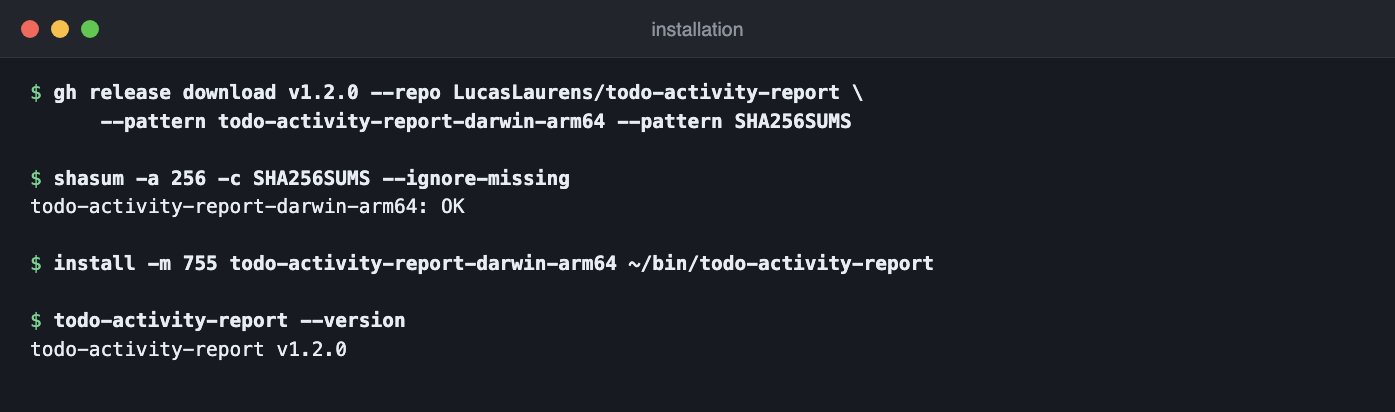
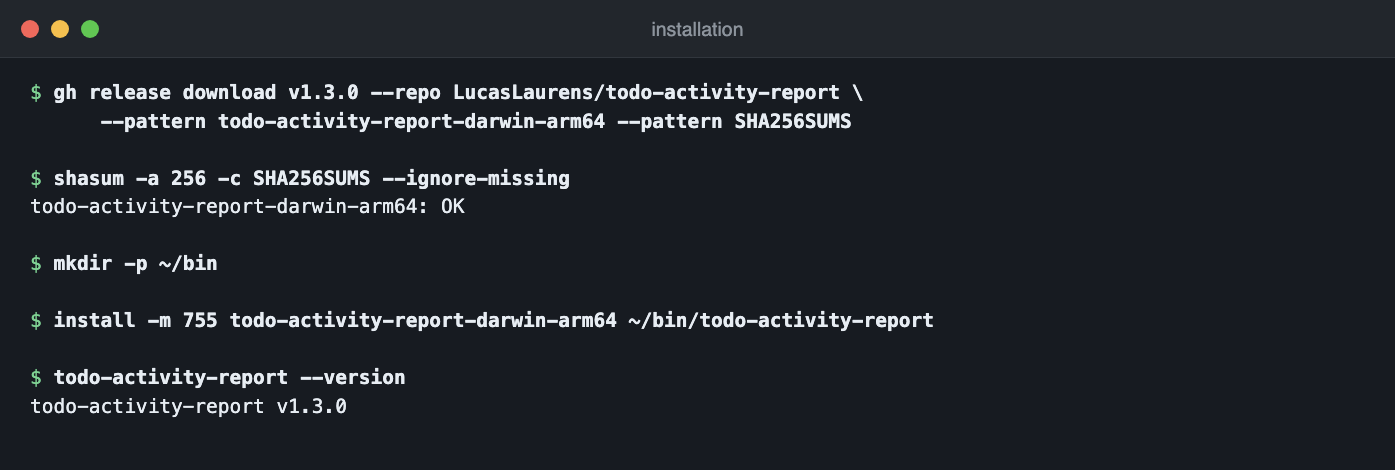
docs: point the install docs at the v1.3.0 release
The README, install guide and screenshot now download v1.3.0, the first
release built with the patched toolchain. status.md warns against v1.2.0
and records that v1.3.0 was built locally while GitHub Actions is
blocked; ci.md documents how to reproduce the release job by hand.

diff --git a/docs/install.md b/docs/install.md
@@ -33,7 +33,7 @@ Il ne réclame que deux choses :
 | `SHA256SUMS` | empreintes des 4 binaires |
 
 Chaque tag pousse ces fichiers dans une **Release GitHub** (voir [ci.md](ci.md#build--release-sur-tag)).
-Dernière release : **v1.2.0** — liste complète via
+Dernière release : **v1.3.0** — liste complète via
 `gh release list --repo LucasLaurens/todo-activity-report`.
 
 ### Télécharger et installer
@@ -43,7 +43,7 @@ Le plus simple est `gh`, qui réutilise la session existante — inutile de
 manipuler un token à la main :
 
 ```bash
-TAG=v1.2.0                    # tag visé
+TAG=v1.3.0                    # tag visé
 TARGET=darwin-arm64           # ou darwin-amd64, linux-amd64, linux-arm64
 
 # 1. binaire + empreintes, sous leur nom de publication
@@ -99,7 +99,7 @@ shasum: SHA256SUMS: no file was verified          # exit 1
 ### Savoir quelle version on a
 
 ```bash
-todo-activity-report --version     # → todo-activity-report v1.2.0
+todo-activity-report --version     # → todo-activity-report v1.3.0
 ```
 
 Le tag est injecté à la compilation par le job `release`
@@ -181,7 +181,7 @@ rm ~/bin/todo-activity-report ~/bin/.env
 
 ## Captures d'écran
 
-Téléchargement, vérification de l'empreinte et premier lancement de la v1.2.0 :
+Téléchargement, vérification de l'empreinte et premier lancement de la v1.3.0 :
 
 ![Premier lancement](images/install-premier-run.png)
 

diff --git a/docs/images/README.md b/docs/images/README.md
@@ -6,14 +6,14 @@ Images utilisées par le README et la documentation.
 |---------|--------------|---------|
 | `sortie-couleurs.png` | [README](../../README.md), [usage.md](../usage.md#couleurs) | rapport complet, statuts colorés (rouge / bleu / vert) |
 | `sortie-brief.png` | [README](../../README.md), [usage.md](../usage.md#couleurs) | même rapport en `--detail=brief` |
-| `install-premier-run.png` | [README](../../README.md), [install.md](../install.md#captures-décran) | téléchargement de la v1.2.0, empreinte, `--version` |
+| `install-premier-run.png` | [README](../../README.md), [install.md](../install.md#captures-décran) | téléchargement de la v1.3.0, empreinte, `--version` |
 | `install-release.png` | [install.md](../install.md#captures-décran) | *à fournir* : page Release GitHub avec les assets |
 
 Les rapports sont la vraie sortie du renderer (`internal/infrastructure/cli`),
 alimentée par les fakes in-memory de `internal/testsupport` avec un board
 **fictif** (`ACME`, `camille.martin@example.com`) et une synthèse IA écrite à la
 main. La capture d'installation montre les vraies commandes et sorties sur la
-Release v1.2.0.
+Release v1.3.0.
 
 Conventions : PNG, largeur ≤ 1400 px, terminal en thème sombre, aucune donnée
 client ni identifiant visible (flouter clés de tickets et emails réels si besoin).

diff --git a/docs/status.md b/docs/status.md
@@ -84,9 +84,10 @@ Aucune dépendance Go tierce : stdlib uniquement.
 - [ ] Un seul adapter de tracker livré (`jira`) : le port et le registre existent, les autres restent à écrire.
 - [ ] Pas de cache des réponses du tracker (chaque run rappelle l'API).
 - [ ] Sortie terminal uniquement (pas de JSON/CSV export).
-- [ ] Release **v1.2.0 vulnérable** : compilée en Go 1.22.12, elle embarque 63 vulnérabilités
-  stdlib connues (`govulncheck -mode=binary`). Le code est corrigé (toolchain
-  `go1.26.10`), il faut publier un nouveau tag pour livrer des binaires sains.
+- [ ] Ne plus installer la **v1.2.0** : compilée en Go 1.22.12, elle embarque 63 vulnérabilités
+  stdlib connues (`govulncheck -mode=binary`). La **v1.3.0** (go1.26.10) n'en a aucune.
+- [ ] CI GitHub Actions bloquée par la facturation du compte : la v1.3.0 a été compilée en
+  local avec les commandes exactes du job `release` (voir [ci.md](ci.md#publier-une-version)).
 - [ ] Durcissements sécurité restants, faible gravité (serveurs de confiance requis) :
   corps d'erreur Jira/Anthropic et stderr du CLI `claude` affichés sans `sanitize.Printable` ;
   `sanitize.Printable` laisse passer les contrôles C1 (U+0080–U+009F) et les marques bidi ;

diff --git a/docs/ci.md b/docs/ci.md
@@ -70,6 +70,23 @@ git push origin v1.0.0
 Aucun secret à configurer : le `GITHUB_TOKEN` fourni au workflow suffit à
 créer la Release.
 
+Sans CI disponible (cas de la v1.3.0, Actions bloquées par la facturation), on
+reproduit le job à la main, puis on publie avec `gh` :
+
+```bash
+TAG=v1.3.0
+for target in darwin-arm64 darwin-amd64 linux-amd64 linux-arm64; do
+  CGO_ENABLED=0 GOOS="${target%-*}" GOARCH="${target#*-}" \
+    go build -trimpath -ldflags="-s -w -X main.version=$TAG" \
+      -o "dist/todo-activity-report-$target" ./cmd/todo-activity-report
+done
+(cd dist && shasum -a 256 todo-activity-report-* > SHA256SUMS)
+gh release create "$TAG" --target main --title "todo-activity-report $TAG" dist/*
+```
+
+`CGO_ENABLED=0` reproduit la cross-compilation de la CI : un build natif sur
+macOS activerait cgo.
+
 ## Sécurité du pipeline
 
 - **Droits minimaux** : le workflow est en `contents: read` ; seul le job

diff --git a/README.md b/README.md
@@ -30,7 +30,7 @@ Prérequis : un accès au dépôt (il est **privé**, demander l'accès à son
 propriétaire) et la CLI [`gh`](https://cli.github.com) connectée (`gh auth login`).
 
 ```bash
-TAG=v1.2.0
+TAG=v1.3.0
 TARGET=darwin-arm64     # darwin-amd64 (Mac Intel), linux-amd64, linux-arm64
 
 gh release download "$TAG" --repo LucasLaurens/todo-activity-report \
